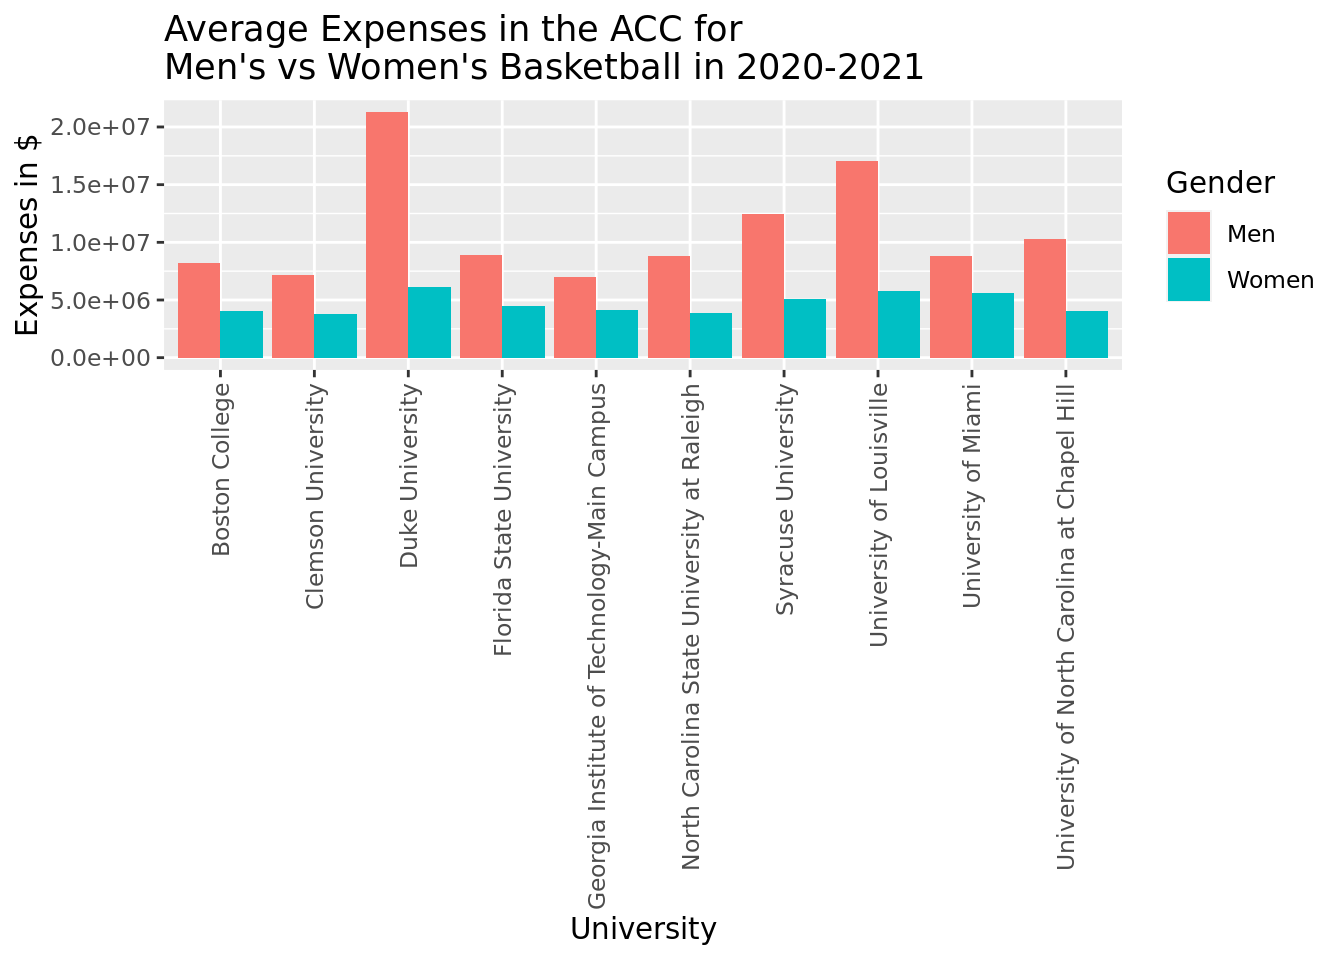
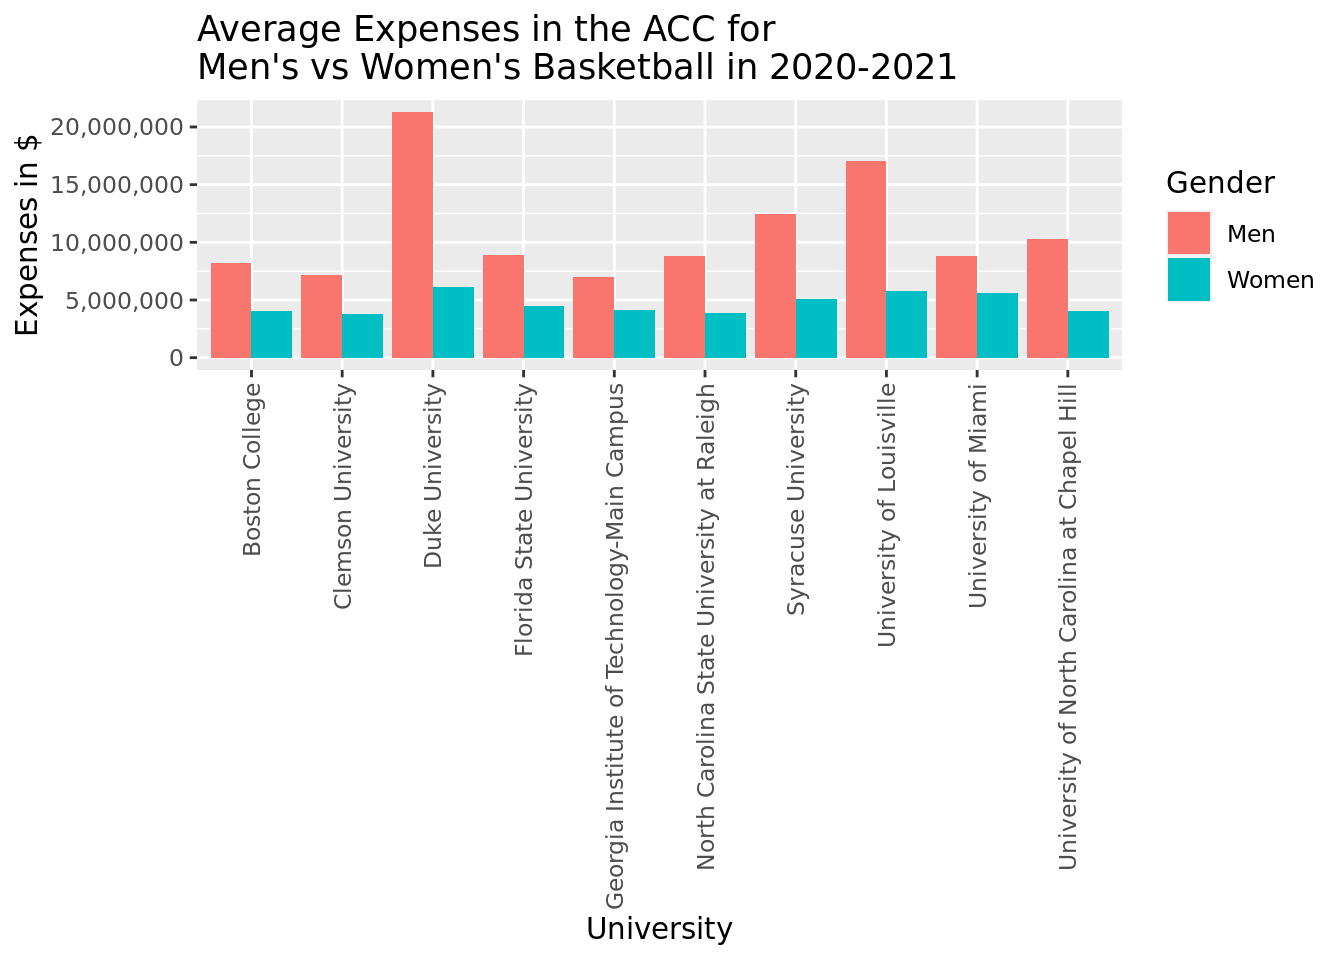
completed results

diff --git a/docs/report.html b/docs/report.html
@@ -122,6 +122,7 @@ code span.wa { color: #60a0b0; font-weight: bold; font-style: italic; } /* Warni
   }
 }</script>
 
+  <script src="https://cdn.jsdelivr.net/npm/mathjax@3/es5/tex-chtml-full.js" type="text/javascript"></script>
 
 </head>
 
@@ -291,7 +292,8 @@ code span.wa { color: #60a0b0; font-weight: bold; font-style: italic; } /* Warni
 <span id="cb9-5"><a href="#cb9-5" aria-hidden="true" tabindex="-1"></a>       <span class="at">y =</span> <span class="st">"Revenue in $"</span>,</span>
 <span id="cb9-6"><a href="#cb9-6" aria-hidden="true" tabindex="-1"></a>       <span class="at">title =</span> <span class="st">"Average Revenue in the ACC for </span></span>
 <span id="cb9-7"><a href="#cb9-7" aria-hidden="true" tabindex="-1"></a><span class="st">Men's vs Women's Basketball in 2020-2021"</span>) <span class="sc">+</span></span>
-<span id="cb9-8"><a href="#cb9-8" aria-hidden="true" tabindex="-1"></a>  <span class="fu">scale_fill_discrete</span>(<span class="at">name =</span> <span class="st">"Gender"</span>, <span class="at">labels =</span> <span class="fu">c</span>(<span class="st">"Men"</span>, <span class="st">"Women"</span>))</span></code><button title="Copy to Clipboard" class="code-copy-button"><i class="bi"></i></button></pre></div>
+<span id="cb9-8"><a href="#cb9-8" aria-hidden="true" tabindex="-1"></a>  <span class="fu">scale_fill_discrete</span>(<span class="at">name =</span> <span class="st">"Gender"</span>, <span class="at">labels =</span> <span class="fu">c</span>(<span class="st">"Men"</span>, <span class="st">"Women"</span>)) <span class="sc">+</span></span>
+<span id="cb9-9"><a href="#cb9-9" aria-hidden="true" tabindex="-1"></a>  <span class="fu">scale_y_continuous</span>(<span class="at">labels =</span> scales<span class="sc">::</span>comma)</span></code><button title="Copy to Clipboard" class="code-copy-button"><i class="bi"></i></button></pre></div>
 <div class="cell-output-display">
 <p><img src="report_files/figure-html/school-revenue-1.png" class="img-fluid" width="672"></p>
 </div>
@@ -304,7 +306,8 @@ code span.wa { color: #60a0b0; font-weight: bold; font-style: italic; } /* Warni
 <span id="cb10-5"><a href="#cb10-5" aria-hidden="true" tabindex="-1"></a>       <span class="at">y =</span> <span class="st">"Expenses in $"</span>,</span>
 <span id="cb10-6"><a href="#cb10-6" aria-hidden="true" tabindex="-1"></a>       <span class="at">title =</span> <span class="st">"Average Expenses in the ACC for </span></span>
 <span id="cb10-7"><a href="#cb10-7" aria-hidden="true" tabindex="-1"></a><span class="st">Men's vs Women's Basketball in 2020-2021"</span>) <span class="sc">+</span></span>
-<span id="cb10-8"><a href="#cb10-8" aria-hidden="true" tabindex="-1"></a>  <span class="fu">scale_fill_discrete</span>(<span class="at">name =</span> <span class="st">"Gender"</span>, <span class="at">labels =</span> <span class="fu">c</span>(<span class="st">"Men"</span>, <span class="st">"Women"</span>))</span></code><button title="Copy to Clipboard" class="code-copy-button"><i class="bi"></i></button></pre></div>
+<span id="cb10-8"><a href="#cb10-8" aria-hidden="true" tabindex="-1"></a>  <span class="fu">scale_fill_discrete</span>(<span class="at">name =</span> <span class="st">"Gender"</span>, <span class="at">labels =</span> <span class="fu">c</span>(<span class="st">"Men"</span>, <span class="st">"Women"</span>)) <span class="sc">+</span></span>
+<span id="cb10-9"><a href="#cb10-9" aria-hidden="true" tabindex="-1"></a>  <span class="fu">scale_y_continuous</span>(<span class="at">labels =</span> scales<span class="sc">::</span>comma)</span></code><button title="Copy to Clipboard" class="code-copy-button"><i class="bi"></i></button></pre></div>
 <div class="cell-output-display">
 <p><img src="report_files/figure-html/school-expenses-1.png" class="img-fluid" width="672"></p>
 </div>
@@ -323,9 +326,12 @@ code span.wa { color: #60a0b0; font-weight: bold; font-style: italic; } /* Warni
 </div>
 </div>
 <p><strong>3) Justify the choice of statistical method(s) used to answer your research question</strong></p>
+<p>In answering our research question of “How do men’s college basketball revenues and expenses compare to women’s college basketball revenues and expenses?” we first narrowed down the data to ACC schools as that would keep the distribution of the data used more uniform and limit the confounding variables. The objective of the study is to display the differences between women’s and men’s basketball in funding and revenue output, so in doing that we believed creating a bar graph would allow the audience to visualize the size of the difference (double or even triple). Furthermore, grouping the data by each college in the ACC is very important because every program has different user bases and revenue streams so the viewer can take into account the colleges marketing. For example, Duke basketball generates a ton of revenue from their brand as they recruit the top high school recruits, giving the viewer a context of why Duke’s difference between men’s and women’s is larger than the rest of the ACC. Lastly, we focused on mean data rather than median data as we compared the average expenses and revenues of college programs during the 2020 and 2021 year as it is a more accurate measure of comparison.</p>
 </section>
 <section id="results" class="level2">
 <h2 class="anchored" data-anchor-id="results">Results</h2>
+<p>In analyzing the results</p>
+<p><span class="math inline">\(H_0 : \mu = 7600\)</span></p>
 <p>Showcase how you arrived at answers to your research question using the techniques we have learned in class (and beyond, if you’re feeling adventurous).</p>
 <ul>
 <li><strong>My notes:</strong> Basically interpret the graphs, for instance if the majority of the men’s teams had greater revenue to expenses ratios or the majority of women’s teams had greater expenses to revenue ratio, etc.</li>
@@ -334,6 +340,10 @@ code span.wa { color: #60a0b0; font-weight: bold; font-style: italic; } /* Warni
 <ul>
 <li>Provide <strong>only the main results</strong> from your analysis. The goal is not to do an exhaustive data analysis (calculate every possible statistic and perform every possible procedure for all variables). Rather, you should demonstrate that you are proficient at asking meaningful questions and answering them using data, that you are skilled in interpreting and presenting results, and that you can accomplish these tasks using R. <strong>More is not better.</strong></li>
 </ul>
+<p>“How do men’s college basketball revenues and expenses compare to women’s college basketball revenues and expenses?”</p>
+<p>Overview of Results:</p>
+<p>From analyzing the bar graphs we can notice when looking at Average Revenue in the ACC for Men’s vs Women’s Basketball in 2020-2021, the men’s programs in every ACC college produce more revenue. At Duke, the men’s program produced over $30 million in revenue while the women’s program produces less than $5 million. Every college in the ACC has their men’s basketball program producing over double of their women’s team except University of Miami and Clemson University. We are able to infer that Men’s basketball programs in the ACC produce more than women’s by a high margin. Boston college, NC state, and Syracuse Women’s basketball programs produce less than $2 million.</p>
+<p>To look at the second part of the question we have to look at the bar graph for men’s and women’s programs expenses. We can see that the expenses for all men’s basketball programs are higher than women’s. However, only Duke, Syracuse, and Louisville men’s programs have expenses that are more than double than the women’s programs. The expenses for all the women’s teams are also higher than the revenues. For example, Unc chapel hill’s women’s team generated roughly $1 million in revenue in 2020-2021, but had roughly $5 million in expenses that year. The Duke men’s program had the highest expenses at almost $20 million, but still produced over $30 million in revenue so they were still profitable.</p>
 
 
 </section>
